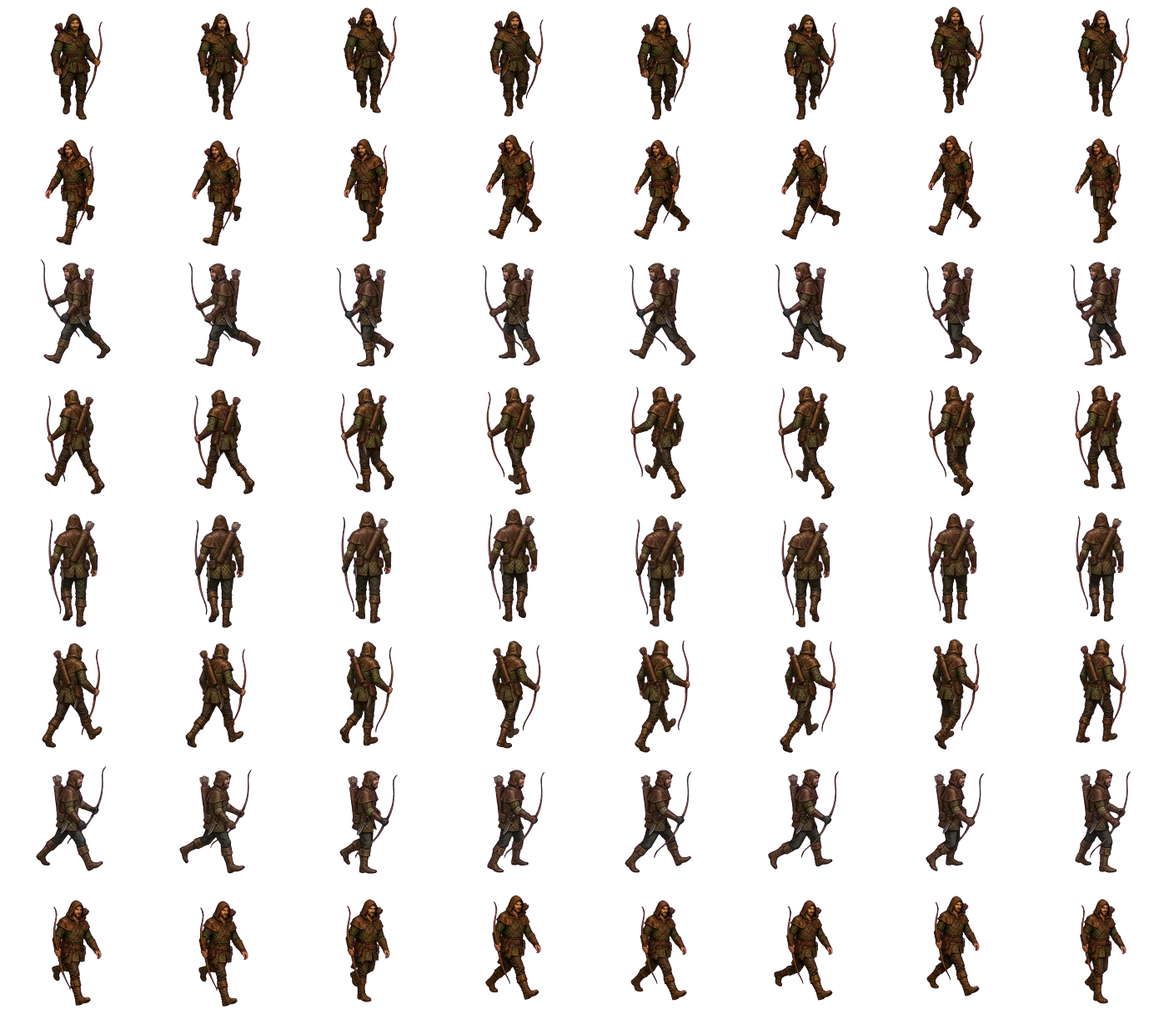
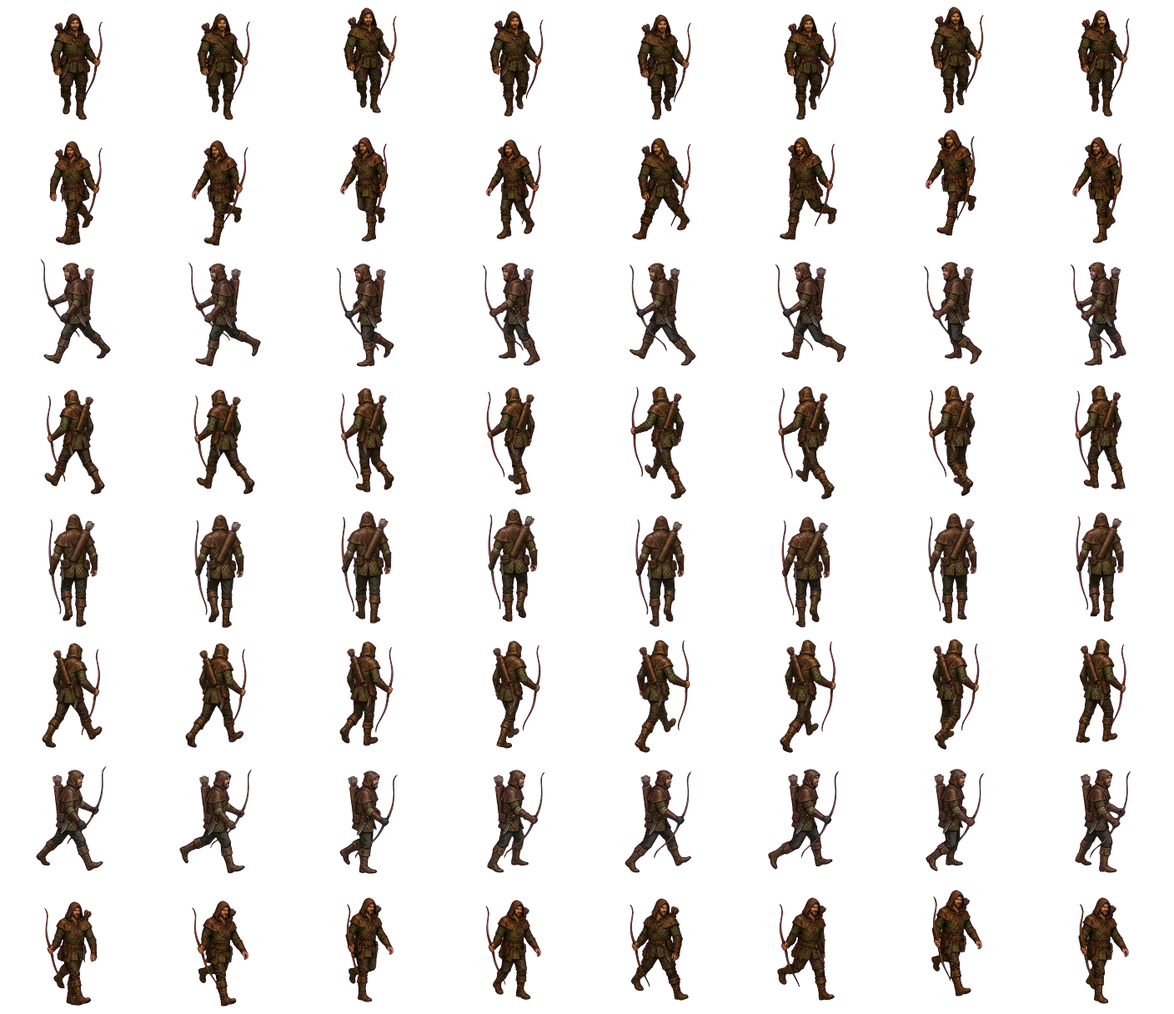
Dungeon crawler v79: the hunter's SW / SE walk repainted (a real stride, three-quarter view)
Claude-Session: https://claude.ai/code/session_01NpeYVwYy5uGAXmDhbForw5

diff --git a/martin/dungeon-crawler-01/catalog.html b/martin/dungeon-crawler-01/catalog.html
@@ -150,7 +150,7 @@
 </main>
 <footer id="footer"></footer>
 <script>
-const D = {"version":78,"mons":{"skeleton":{"name":"Skeleton Warrior","scale":1,"hp":26,"dmg":[3,6],"armor":5,"speed":2.71,"reach":1.1,"cd":1.2,"xp":16,"r":0.32,"minD":1,"w":3,"perDepth":[{"hp":31,"dmg":[3.6,7.2],"armor":5,"speed":2.3,"xp":16,"limit":null,"champ":false},{"hp":35,"dmg":[4,8.1],"armor":8,"speed":2.34,"xp":19,"limit":null,"champ":false},{"hp":39,"dmg":[4.5,9],"armor":11,"speed":2.37,"xp":22,"limit":null,"champ":false},{"hp":44,"dmg":[5.1,10.1],"armor":14,"speed":2.41,"xp":26,"limit":null,"champ":false},{"hp":49,"dmg":[5.7,11.3],"armor":17,"speed":2.44,"xp":30,"limit":null,"champ":true},{"hp":55,"dmg":[6.3,12.7],"armor":20,"speed":2.48,"xp":35,"limit":null,"champ":true},{"hp":62,"dmg":[7.1,14.2],"armor":23,"speed":2.51,"xp":41,"limit":null,"champ":true},{"hp":69,"dmg":[8,15.9],"armor":26,"speed":2.55,"xp":48,"limit":null,"champ":true},{"hp":77,"dmg":[8.9,17.8],"armor":29,"speed":2.58,"xp":56,"limit":null,"champ":true},{"hp":87,"dmg":[10,20],"armor":32,"speed":2.61,"xp":66,"limit":null,"champ":true},{"hp":97,"dmg":[11.2,22.4],"armor":35,"speed":2.65,"xp":77,"limit":null,"champ":true},{"hp":109,"dmg":[12.5,25],"armor":38,"speed":2.68,"xp":90,"limit":null,"champ":true}]},"ghoul":{"name":"Ghoul","scale":0.95,"hp":20,"dmg":[2,5],"armor":2,"speed":3.3,"reach":1,"cd":0.9,"xp":13,"r":0.3,"minD":1,"w":3,"perDepth":[{"hp":24,"dmg":[2.4,6],"armor":2,"speed":2.8,"xp":13,"limit":1,"champ":false},{"hp":27,"dmg":[2.7,6.7],"armor":5,"speed":2.85,"xp":15,"limit":2,"champ":false},{"hp":30,"dmg":[3,7.5],"armor":8,"speed":2.89,"xp":18,"limit":2,"champ":false},{"hp":34,"dmg":[3.4,8.4],"armor":11,"speed":2.93,"xp":21,"limit":2,"champ":false},{"hp":38,"dmg":[3.8,9.4],"armor":14,"speed":2.97,"xp":24,"limit":null,"champ":true},{"hp":42,"dmg":[4.2,10.6],"armor":17,"speed":3.02,"xp":29,"limit":null,"champ":true},{"hp":47,"dmg":[4.7,11.8],"armor":20,"speed":3.06,"xp":33,"limit":null,"champ":true},{"hp":53,"dmg":[5.3,13.3],"armor":23,"speed":3.1,"xp":39,"limit":null,"champ":true},{"hp":59,"dmg":[5.9,14.9],"armor":26,"speed":3.14,"xp":46,"limit":null,"champ":true},{"hp":67,"dmg":[6.7,16.6],"armor":29,"speed":3.18,"xp":53,"limit":null,"champ":true},{"hp":75,"dmg":[7.5,18.6],"armor":32,"speed":3.23,"xp":62,"limit":null,"champ":true},{"hp":83,"dmg":[8.3,20.9],"armor":35,"speed":3.27,"xp":73,"limit":null,"champ":true}]},"spider":{"name":"Cave Spider","scale":0.78,"hp":15,"dmg":[2,4],"armor":1,"speed":3.9,"reach":1,"cd":0.8,"xp":11,"r":0.34,"minD":1,"w":2,"perDepth":[{"hp":18,"dmg":[2.4,4.8],"armor":1,"speed":3.31,"xp":11,"limit":null,"champ":false},{"hp":20,"dmg":[2.7,5.4],"armor":4,"speed":3.36,"xp":13,"limit":null,"champ":false},{"hp":23,"dmg":[3,6],"armor":7,"speed":3.41,"xp":15,"limit":null,"champ":false},{"hp":25,"dmg":[3.4,6.7],"armor":10,"speed":3.46,"xp":18,"limit":null,"champ":false},{"hp":28,"dmg":[3.8,7.6],"armor":13,"speed":3.51,"xp":21,"limit":null,"champ":true},{"hp":32,"dmg":[4.2,8.5],"armor":16,"speed":3.56,"xp":24,"limit":null,"champ":true},{"hp":36,"dmg":[4.7,9.5],"armor":19,"speed":3.61,"xp":28,"limit":null,"champ":true},{"hp":40,"dmg":[5.3,10.6],"armor":22,"speed":3.66,"xp":33,"limit":null,"champ":true},{"hp":45,"dmg":[5.9,11.9],"armor":25,"speed":3.71,"xp":39,"limit":null,"champ":true},{"hp":50,"dmg":[6.7,13.3],"armor":28,"speed":3.76,"xp":45,"limit":null,"champ":true},{"hp":56,"dmg":[7.5,14.9],"armor":31,"speed":3.81,"xp":53,"limit":null,"champ":true},{"hp":63,"dmg":[8.3,16.7],"armor":34,"speed":3.86,"xp":62,"limit":null,"champ":true}]},"wraith":{"name":"Wraith","scale":1,"hp":22,"dmg":[4,7],"armor":3,"speed":2.3,"ranged":true,"range":6.5,"cd":1.9,"xp":22,"r":0.3,"minD":4,"w":2,"float":true,"perDepth":[{"hp":26,"dmg":[4.8,8.4],"armor":3,"speed":1.95,"xp":22,"limit":null,"champ":false},{"hp":30,"dmg":[5.4,9.4],"armor":6,"speed":1.98,"xp":26,"limit":null,"champ":false},{"hp":33,"dmg":[6,10.5],"armor":9,"speed":2.01,"xp":30,"limit":null,"champ":false},{"hp":37,"dmg":[6.7,11.8],"armor":12,"speed":2.04,"xp":35,"limit":1,"champ":false},{"hp":42,"dmg":[7.6,13.2],"armor":15,"speed":2.07,"xp":41,"limit":2,"champ":false},{"hp":47,"dmg":[8.5,14.8],"armor":18,"speed":2.1,"xp":48,"limit":2,"champ":false},{"hp":52,"dmg":[9.5,16.6],"armor":21,"speed":2.13,"xp":56,"limit":2,"champ":false},{"hp":58,"dmg":[10.6,18.6],"armor":24,"speed":2.16,"xp":66,"limit":null,"champ":true},{"hp":65,"dmg":[11.9,20.8],"armor":27,"speed":2.19,"xp":77,"limit":null,"champ":true},{"hp":73,"dmg":[13.3,23.3],"armor":30,"speed":2.22,"xp":90,"limit":null,"champ":true},{"hp":82,"dmg":[14.9,26.1],"armor":33,"speed":2.25,"xp":106,"limit":null,"champ":true},{"hp":92,"dmg":[16.7,29.2],"armor":36,"speed":2.28,"xp":124,"limit":null,"champ":true}]},"demon":{"name":"Pit Demon","scale":1.3,"hp":75,"dmg":[8,13],"armor":12,"speed":2.24,"reach":1.35,"cd":1.5,"xp":60,"r":0.45,"minD":5,"w":1,"perDepth":[{"hp":90,"dmg":[9.6,15.6],"armor":12,"speed":1.9,"xp":60,"limit":null,"champ":false},{"hp":101,"dmg":[10.8,17.5],"armor":15,"speed":1.93,"xp":70,"limit":null,"champ":false},{"hp":113,"dmg":[12,19.6],"armor":18,"speed":1.96,"xp":82,"limit":null,"champ":false},{"hp":126,"dmg":[13.5,21.9],"armor":21,"speed":1.99,"xp":96,"limit":null,"champ":false},{"hp":142,"dmg":[15.1,24.5],"armor":24,"speed":2.02,"xp":112,"limit":1,"champ":false},{"hp":159,"dmg":[16.9,27.5],"armor":27,"speed":2.05,"xp":132,"limit":2,"champ":false},{"hp":178,"dmg":[18.9,30.8],"armor":30,"speed":2.08,"xp":154,"limit":2,"champ":false},{"hp":199,"dmg":[21.2,34.5],"armor":33,"speed":2.1,"xp":180,"limit":2,"champ":false},{"hp":223,"dmg":[23.8,38.6],"armor":36,"speed":2.13,"xp":211,"limit":null,"champ":true},{"hp":250,"dmg":[26.6,43.3],"armor":39,"speed":2.16,"xp":247,"limit":null,"champ":true},{"hp":280,"dmg":[29.8,48.5],"armor":42,"speed":2.19,"xp":288,"limit":null,"champ":true},{"hp":313,"dmg":[33.4,54.3],"armor":45,"speed":2.22,"xp":337,"limit":null,"champ":true}]}},"tier":{"normal":{"size":1,"hp":1,"dmg":1,"xp":1,"armor":0},"champ":{"size":1.15,"hp":2.5,"dmg":2,"xp":4,"armor":0},"boss":{"size":1.35,"hp":8,"dmg":3,"xp":12,"armor":4}},"monBase":1.2,"monScale":1.12,"monSpeed":0.85,"newLimit":[1,2,2,2],"champAfter":4,"bossFrom":6,"bossRoomFrom":5,"loneAt":{"3":"wraith","4":"demon"},"bases":{"shortsword":{"name":"Short Sword","slot":"weapon","kind":"sword","min":4,"max":8,"cd":0.55,"lvl":1},"longsword":{"name":"Longsword","slot":"weapon","kind":"sword","min":7,"max":14,"cd":0.65,"lvl":2},"broadsword":{"name":"Broadsword","slot":"weapon","kind":"sword","min":13,"max":22,"cd":0.7,"lvl":5},"greatsword":{"name":"Blackened Greatsword","slot":"weapon","kind":"sword","min":20,"max":34,"cd":0.85,"lvl":8},"bastardsword":{"name":"Bastard Sword","slot":"weapon","kind":"sword","min":24,"max":40,"cd":0.8,"lvl":11},"knightsword":{"name":"Knight's Greatsword","slot":"weapon","kind":"sword","min":32,"max":52,"cd":0.85,"lvl":15},"handaxe":{"name":"Hand Axe","slot":"weapon","kind":"axe","min":5,"max":10,"cd":0.7,"lvl":1},"beardedaxe":{"name":"Bearded Axe","slot":"weapon","kind":"axe","min":10,"max":18,"cd":0.8,"lvl":4},"battleaxe":{"name":"Battle Axe","slot":"weapon","kind":"axe","min":17,"max":29,"cd":0.9,"lvl":7},"execaxe":{"name":"Executioner's Axe","slot":"weapon","kind":"axe","min":26,"max":46,"cd":1.05,"lvl":9},"greataxe":{"name":"Great Axe","slot":"weapon","kind":"axe","min":34,"max":58,"cd":1.05,"lvl":14},"shortbow":{"name":"Short Bow","slot":"weapon","kind":"bow","min":3,"max":7,"cd":0.6,"lvl":1},"huntingbow":{"name":"Hunting Bow","slot":"weapon","kind":"bow","min":5,"max":10,"cd":0.65,"lvl":2},"longbow":{"name":"Yew Longbow","slot":"weapon","kind":"bow","min":9,"max":16,"cd":0.75,"lvl":5},"bonebow":{"name":"Bone Bow","slot":"weapon","kind":"bow","min":14,"max":25,"cd":0.9,"lvl":8},"compositebow":{"name":"Composite Bow","slot":"weapon","kind":"bow","min":18,"max":31,"cd":0.85,"lvl":11},"warbow":{"name":"War Bow","slot":"weapon","kind":"bow","min":25,"max":42,"cd":0.9,"lvl":15},"leathercap":{"name":"Leather Cap","slot":"head","armor":3,"lvl":1},"ironhelm":{"name":"Iron Helm","slot":"head","armor":7,"lvl":4},"greathelm":{"name":"Horned Great Helm","slot":"head","armor":13,"lvl":8},"visoredhelm":{"name":"Visored Helm","slot":"head","armor":19,"lvl":12},"leathertunic":{"name":"Leather Tunic","slot":"chest","armor":6,"lvl":1},"studded":{"name":"Studded Leather","slot":"chest","armor":11,"lvl":4},"chainmail":{"name":"Chain Mail","slot":"chest","armor":18,"lvl":7},"platemail":{"name":"Plate Cuirass","slot":"chest","armor":28,"lvl":11},"fullplate":{"name":"Full Plate","slot":"chest","armor":36,"lvl":15},"leathergloves":{"name":"Leather Gloves","slot":"hands","armor":2,"lvl":1},"gauntlets":{"name":"Iron Gauntlets","slot":"hands","armor":6,"lvl":4},"platedgloves":{"name":"Plated Gauntlets","slot":"hands","armor":10,"lvl":9},"heavygloves":{"name":"Heavy Gauntlets","slot":"hands","armor":13,"lvl":14},"leatherboots":{"name":"Leather Boots","slot":"feet","armor":2,"implicit":{"speed":5},"lvl":1},"ironboots":{"name":"Plated Boots","slot":"feet","armor":6,"lvl":4},"greaves":{"name":"Iron Greaves","slot":"feet","armor":10,"lvl":9},"heavygreaves":{"name":"Heavy Greaves","slot":"feet","armor":13,"lvl":14},"silverring":{"name":"Silver Ring","slot":"ring","lvl":1},"rubyring":{"name":"Ruby Ring","slot":"ring","lvl":1},"skullring":{"name":"Grave Ring","slot":"ring","lvl":1},"sapphireamulet":{"name":"Sapphire Amulet","slot":"amulet","lvl":1},"bloodamulet":{"name":"Blood Amulet","slot":"amulet","lvl":1},"bonetalisman":{"name":"Bone Talisman","slot":"amulet","lvl":1}},"kinds":{"sword":{"reach":1.55,"arc":0.9,"label":"Sword (melee)"},"axe":{"reach":1.45,"arc":1.25,"label":"Axe (melee, wide cleave)"},"bow":{"reach":12,"label":"Bow (ranged)"},"bomb":{"reach":7,"label":"Fire bomb (thrown)"},"fist":{"reach":1.25,"arc":0.8,"label":"Bare hands"}},"slotLabel":{"weapon":"Weapon","head":"Helm","chest":"Armor","hands":"Gloves","feet":"Boots","ring":"Ring","ring1":"Ring","ring2":"Ring","amulet":"Amulet"},"statLabel":{"str":"Strength","dex":"Dexterity","vit":"Vitality","hp":"Life","regen":"Life regen / s","armor":"Armor","crit":"% Critical chance","dmg":"% Damage","speed":"% Move speed"},"affix":[{"k":"str","tiers":[["Mighty","of the Bear",1,4],["Brutal","of the Boar",5,8],["Titanic","of the Giant",9,12]]},{"k":"dex","tiers":[["Nimble","of the Fox",1,4],["Deft","of the Lynx",5,8],["Lithe","of the Falcon",9,12]]},{"k":"vit","tiers":[["Sturdy","of the Ox",1,4],["Stalwart","of the Bull",5,8],["Unyielding","of the Mountain",9,12]]},{"k":"hp","tiers":[["Hale","of Life",5,16],["Robust","of Vigor",17,30],["Vigorous","of Endurance",31,45]]},{"k":"armor","tiers":[["Warded","of Iron",2,8],["Fortified","of Steel",9,15],["Impregnable","of Adamant",16,22]],"noWeapon":true},{"k":"crit","tiers":[["Keen","of Precision",1,3],["Precise","of Striking",3,5],["Deadly","of Slaying",5,8]]},{"k":"dmg","tiers":[["Cruel","of Slaughter",5,15],["Savage","of Carnage",16,26],["Merciless","of Ruin",27,38]]},{"k":"speed","tiers":[["Swift","of Haste",3,6],["Fleet","of Speed",7,10],["Windborne","of the Wind",11,15]],"only":"feet"}],"affixFrom":[1,7,12],"affixW":[1,2,4],"jewelMult":2,"potions":{"health":{"name":"Health Potion","plural":"health potions","color":"#e06a5a","glow":"224,90,80","filter":"","desc":"Restores 44% of your life."},"ironskin":{"name":"Iron Skin Potion","plural":"iron skin potions","color":"#a9c1d6","glow":"150,180,210","filter":"hue-rotate(195deg) saturate(0.55) brightness(1.2)","desc":"Armor ×3 + 60 for 20 seconds."}},"bomb":{"name":"Fire Bomb","plural":"fire bombs","cd":1,"range":7,"color":"#e8893a","glow":"232,137,58","from":2},"fire":{"r":1.5,"dur":12,"dps":10,"tick":0.5,"fade":1.5,"scorch":20,"after":10,"afterDps":5,"catchMon":1.5},"iron":{"mult":3,"add":60,"dur":20},"heal":0.44,"magicFrom":4,"lootPlus":{"champ":2,"bigChest":2,"boss":3,"guardian":4},"rareFrom":8,"ringFrom":4,"amuletFrom":6,"magicOdds":0.25,"rareOdds":0.1,"meta":{"characters":{"hero":{"fw":144,"fh":152,"frames":8,"idle":3,"footY":128,"fpt":5},"skeleton":{"fw":176,"fh":152,"frames":8,"idle":3,"footY":128,"fpt":5},"ghoul":{"fw":160,"fh":162,"frames":8,"idle":3,"footY":138,"fpt":5.5},"spider":{"fw":188,"fh":152,"frames":4,"footY":128,"fpt":2},"wraith":{"fw":102,"fh":152,"frames":4,"footY":128,"fpt":2},"demon":{"fw":150,"fh":152,"frames":4,"footY":128,"fpt":2},"keeper1":{"fw":160,"fh":152,"frames":8,"idle":3,"footY":128,"fpt":5},"keeper2":{"fw":168,"fh":152,"frames":8,"idle":3,"footY":128,"fpt":5},"keeper3":{"fw":168,"fh":160,"frames":8,"idle":3,"footY":136,"fpt":5},"keeper4":{"fw":160,"fh":152,"frames":8,"idle":3,"footY":128,"fpt":5.5},"hunter":{"fw":176,"fh":152,"frames":8,"idle":3,"footY":128,"fpt":5},"huntress":{"fw":176,"fh":152,"frames":8,"idle":3,"footY":128,"fpt":5},"girl":{"fw":144,"fh":152,"frames":8,"idle":3,"footY":128,"fpt":5},"boy":{"fw":144,"fh":152,"frames":8,"idle":3,"footY":128,"fpt":5},"duke":{"fw":176,"fh":152,"frames":8,"idle":3,"footY":128,"fpt":5},"princess":{"fw":160,"fh":152,"frames":8,"idle":3,"footY":128,"fpt":5},"smithess":{"fw":168,"fh":152,"frames":8,"idle":3,"footY":128,"fpt":5},"sorcerer":{"fw":176,"fh":176,"frames":8,"idle":3,"footY":152,"fpt":5.5}},"items":{"shortsword":[0,0],"longsword":[96,0],"greatsword":[192,0],"handaxe":[288,0],"battleaxe":[384,0],"execaxe":[480,0],"shortbow":[0,96],"longbow":[96,96],"bonebow":[192,96],"leathercap":[288,96],"greathelm":[384,96],"leathertunic":[480,96],"platemail":[0,192],"leathergloves":[96,192],"gauntlets":[192,192],"leatherboots":[288,192],"ironboots":[384,192],"silverring":[480,192],"rubyring":[0,288],"skullring":[96,288],"sapphireamulet":[192,288],"bloodamulet":[288,288],"bonetalisman":[384,288],"potion":[480,288],"broadsword":[0,384],"bastardsword":[96,384],"knightsword":[192,384],"beardedaxe":[288,384],"greataxe":[384,384],"huntingbow":[480,384],"ironhelm":[0,480],"visoredhelm":[96,480],"studded":[192,480],"platedgloves":[288,480],"heavygloves":[384,480],"chainmail":[480,480],"quiver":[0,576],"warbow":[96,576],"compositebow":[192,576],"fullplate":[288,576],"greaves":[384,576],"heavygreaves":[480,576],"firebomb1":[0,672],"firebomb2":[96,672],"firebomb3":[192,672],"firebomb4":[288,672],"firebomb5":[384,672],"firebomb6":[480,672]},"props":{"chest":[0,0,132,141],"chestopen":[134,0,144,171],"door":[280,0,131,207],"stairs":[413,0,156,127],"brazier":[571,0,104,167],"bones":[677,0,148,117],"urn":[827,0,95,151],"gold":[924,0,127,90],"throne":[1053,0,129,206],"altar":[1184,0,153,166],"candelabrum":[1339,0,84,196],"skullpile":[1425,0,166,136],"banner":[1593,0,84,206],"pillar":[1679,0,98,191],"sarcophagus":[1779,0,154,144],"bonesused":[0,209,200,103],"doorA":[202,209,192,256],"doorB":[396,209,192,256],"keeper1":[0,467,104,230],"keeper2":[106,467,108,220],"keeper3":[216,467,105,225],"keeper4":[323,467,98,228],"mtable":[423,467,230,257],"mrack":[655,467,136,230],"mchest":[793,467,170,218],"mshelf":[965,467,190,228],"mcrates":[1157,467,190,222],"mbarrel":[1349,467,100,190],"mlantern":[1451,467,65,230],"mrug":[1518,467,260,145]},"iconSize":96,"surface":{"tree1":[0,0,248,400,224],"tree2":[250,0,148,420,319],"tree3":[400,0,159,340,220],"tree4":[561,0,153,360,177],"bush1":[716,0,94,96],"bush2":[812,0,96,92],"bush3":[910,0,102,70],"bush4":[1014,0,96,100],"flowers":[1112,0,63,56],"rocks":[1177,0,71,50],"mushrooms":[1250,0,73,54],"tuft":[1325,0,65,70],"crypt":[1392,0,540,600]}},"heroSpeed":4.2,"depths":12,"propsW":1935,"itemsW":576,"levels":[{"bossRoom":false,"boss":false,"big":false},{"bossRoom":false,"boss":false,"big":false},{"bossRoom":false,"boss":false,"big":true},{"bossRoom":false,"boss":false,"big":false},{"bossRoom":true,"boss":false,"big":true},{"bossRoom":true,"boss":true,"big":false},{"bossRoom":true,"boss":true,"big":true},{"bossRoom":true,"boss":true,"big":false},{"bossRoom":true,"boss":true,"big":true},{"bossRoom":true,"boss":true,"big":false},{"bossRoom":true,"boss":true,"big":true},{"bossRoom":true,"boss":true,"big":false}]};
+const D = {"version":79,"mons":{"skeleton":{"name":"Skeleton Warrior","scale":1,"hp":26,"dmg":[3,6],"armor":5,"speed":2.71,"reach":1.1,"cd":1.2,"xp":16,"r":0.32,"minD":1,"w":3,"perDepth":[{"hp":31,"dmg":[3.6,7.2],"armor":5,"speed":2.3,"xp":16,"limit":null,"champ":false},{"hp":35,"dmg":[4,8.1],"armor":8,"speed":2.34,"xp":19,"limit":null,"champ":false},{"hp":39,"dmg":[4.5,9],"armor":11,"speed":2.37,"xp":22,"limit":null,"champ":false},{"hp":44,"dmg":[5.1,10.1],"armor":14,"speed":2.41,"xp":26,"limit":null,"champ":false},{"hp":49,"dmg":[5.7,11.3],"armor":17,"speed":2.44,"xp":30,"limit":null,"champ":true},{"hp":55,"dmg":[6.3,12.7],"armor":20,"speed":2.48,"xp":35,"limit":null,"champ":true},{"hp":62,"dmg":[7.1,14.2],"armor":23,"speed":2.51,"xp":41,"limit":null,"champ":true},{"hp":69,"dmg":[8,15.9],"armor":26,"speed":2.55,"xp":48,"limit":null,"champ":true},{"hp":77,"dmg":[8.9,17.8],"armor":29,"speed":2.58,"xp":56,"limit":null,"champ":true},{"hp":87,"dmg":[10,20],"armor":32,"speed":2.61,"xp":66,"limit":null,"champ":true},{"hp":97,"dmg":[11.2,22.4],"armor":35,"speed":2.65,"xp":77,"limit":null,"champ":true},{"hp":109,"dmg":[12.5,25],"armor":38,"speed":2.68,"xp":90,"limit":null,"champ":true}]},"ghoul":{"name":"Ghoul","scale":0.95,"hp":20,"dmg":[2,5],"armor":2,"speed":3.3,"reach":1,"cd":0.9,"xp":13,"r":0.3,"minD":1,"w":3,"perDepth":[{"hp":24,"dmg":[2.4,6],"armor":2,"speed":2.8,"xp":13,"limit":1,"champ":false},{"hp":27,"dmg":[2.7,6.7],"armor":5,"speed":2.85,"xp":15,"limit":2,"champ":false},{"hp":30,"dmg":[3,7.5],"armor":8,"speed":2.89,"xp":18,"limit":2,"champ":false},{"hp":34,"dmg":[3.4,8.4],"armor":11,"speed":2.93,"xp":21,"limit":2,"champ":false},{"hp":38,"dmg":[3.8,9.4],"armor":14,"speed":2.97,"xp":24,"limit":null,"champ":true},{"hp":42,"dmg":[4.2,10.6],"armor":17,"speed":3.02,"xp":29,"limit":null,"champ":true},{"hp":47,"dmg":[4.7,11.8],"armor":20,"speed":3.06,"xp":33,"limit":null,"champ":true},{"hp":53,"dmg":[5.3,13.3],"armor":23,"speed":3.1,"xp":39,"limit":null,"champ":true},{"hp":59,"dmg":[5.9,14.9],"armor":26,"speed":3.14,"xp":46,"limit":null,"champ":true},{"hp":67,"dmg":[6.7,16.6],"armor":29,"speed":3.18,"xp":53,"limit":null,"champ":true},{"hp":75,"dmg":[7.5,18.6],"armor":32,"speed":3.23,"xp":62,"limit":null,"champ":true},{"hp":83,"dmg":[8.3,20.9],"armor":35,"speed":3.27,"xp":73,"limit":null,"champ":true}]},"spider":{"name":"Cave Spider","scale":0.78,"hp":15,"dmg":[2,4],"armor":1,"speed":3.9,"reach":1,"cd":0.8,"xp":11,"r":0.34,"minD":1,"w":2,"perDepth":[{"hp":18,"dmg":[2.4,4.8],"armor":1,"speed":3.31,"xp":11,"limit":null,"champ":false},{"hp":20,"dmg":[2.7,5.4],"armor":4,"speed":3.36,"xp":13,"limit":null,"champ":false},{"hp":23,"dmg":[3,6],"armor":7,"speed":3.41,"xp":15,"limit":null,"champ":false},{"hp":25,"dmg":[3.4,6.7],"armor":10,"speed":3.46,"xp":18,"limit":null,"champ":false},{"hp":28,"dmg":[3.8,7.6],"armor":13,"speed":3.51,"xp":21,"limit":null,"champ":true},{"hp":32,"dmg":[4.2,8.5],"armor":16,"speed":3.56,"xp":24,"limit":null,"champ":true},{"hp":36,"dmg":[4.7,9.5],"armor":19,"speed":3.61,"xp":28,"limit":null,"champ":true},{"hp":40,"dmg":[5.3,10.6],"armor":22,"speed":3.66,"xp":33,"limit":null,"champ":true},{"hp":45,"dmg":[5.9,11.9],"armor":25,"speed":3.71,"xp":39,"limit":null,"champ":true},{"hp":50,"dmg":[6.7,13.3],"armor":28,"speed":3.76,"xp":45,"limit":null,"champ":true},{"hp":56,"dmg":[7.5,14.9],"armor":31,"speed":3.81,"xp":53,"limit":null,"champ":true},{"hp":63,"dmg":[8.3,16.7],"armor":34,"speed":3.86,"xp":62,"limit":null,"champ":true}]},"wraith":{"name":"Wraith","scale":1,"hp":22,"dmg":[4,7],"armor":3,"speed":2.3,"ranged":true,"range":6.5,"cd":1.9,"xp":22,"r":0.3,"minD":4,"w":2,"float":true,"perDepth":[{"hp":26,"dmg":[4.8,8.4],"armor":3,"speed":1.95,"xp":22,"limit":null,"champ":false},{"hp":30,"dmg":[5.4,9.4],"armor":6,"speed":1.98,"xp":26,"limit":null,"champ":false},{"hp":33,"dmg":[6,10.5],"armor":9,"speed":2.01,"xp":30,"limit":null,"champ":false},{"hp":37,"dmg":[6.7,11.8],"armor":12,"speed":2.04,"xp":35,"limit":1,"champ":false},{"hp":42,"dmg":[7.6,13.2],"armor":15,"speed":2.07,"xp":41,"limit":2,"champ":false},{"hp":47,"dmg":[8.5,14.8],"armor":18,"speed":2.1,"xp":48,"limit":2,"champ":false},{"hp":52,"dmg":[9.5,16.6],"armor":21,"speed":2.13,"xp":56,"limit":2,"champ":false},{"hp":58,"dmg":[10.6,18.6],"armor":24,"speed":2.16,"xp":66,"limit":null,"champ":true},{"hp":65,"dmg":[11.9,20.8],"armor":27,"speed":2.19,"xp":77,"limit":null,"champ":true},{"hp":73,"dmg":[13.3,23.3],"armor":30,"speed":2.22,"xp":90,"limit":null,"champ":true},{"hp":82,"dmg":[14.9,26.1],"armor":33,"speed":2.25,"xp":106,"limit":null,"champ":true},{"hp":92,"dmg":[16.7,29.2],"armor":36,"speed":2.28,"xp":124,"limit":null,"champ":true}]},"demon":{"name":"Pit Demon","scale":1.3,"hp":75,"dmg":[8,13],"armor":12,"speed":2.24,"reach":1.35,"cd":1.5,"xp":60,"r":0.45,"minD":5,"w":1,"perDepth":[{"hp":90,"dmg":[9.6,15.6],"armor":12,"speed":1.9,"xp":60,"limit":null,"champ":false},{"hp":101,"dmg":[10.8,17.5],"armor":15,"speed":1.93,"xp":70,"limit":null,"champ":false},{"hp":113,"dmg":[12,19.6],"armor":18,"speed":1.96,"xp":82,"limit":null,"champ":false},{"hp":126,"dmg":[13.5,21.9],"armor":21,"speed":1.99,"xp":96,"limit":null,"champ":false},{"hp":142,"dmg":[15.1,24.5],"armor":24,"speed":2.02,"xp":112,"limit":1,"champ":false},{"hp":159,"dmg":[16.9,27.5],"armor":27,"speed":2.05,"xp":132,"limit":2,"champ":false},{"hp":178,"dmg":[18.9,30.8],"armor":30,"speed":2.08,"xp":154,"limit":2,"champ":false},{"hp":199,"dmg":[21.2,34.5],"armor":33,"speed":2.1,"xp":180,"limit":2,"champ":false},{"hp":223,"dmg":[23.8,38.6],"armor":36,"speed":2.13,"xp":211,"limit":null,"champ":true},{"hp":250,"dmg":[26.6,43.3],"armor":39,"speed":2.16,"xp":247,"limit":null,"champ":true},{"hp":280,"dmg":[29.8,48.5],"armor":42,"speed":2.19,"xp":288,"limit":null,"champ":true},{"hp":313,"dmg":[33.4,54.3],"armor":45,"speed":2.22,"xp":337,"limit":null,"champ":true}]}},"tier":{"normal":{"size":1,"hp":1,"dmg":1,"xp":1,"armor":0},"champ":{"size":1.15,"hp":2.5,"dmg":2,"xp":4,"armor":0},"boss":{"size":1.35,"hp":8,"dmg":3,"xp":12,"armor":4}},"monBase":1.2,"monScale":1.12,"monSpeed":0.85,"newLimit":[1,2,2,2],"champAfter":4,"bossFrom":6,"bossRoomFrom":5,"loneAt":{"3":"wraith","4":"demon"},"bases":{"shortsword":{"name":"Short Sword","slot":"weapon","kind":"sword","min":4,"max":8,"cd":0.55,"lvl":1},"longsword":{"name":"Longsword","slot":"weapon","kind":"sword","min":7,"max":14,"cd":0.65,"lvl":2},"broadsword":{"name":"Broadsword","slot":"weapon","kind":"sword","min":13,"max":22,"cd":0.7,"lvl":5},"greatsword":{"name":"Blackened Greatsword","slot":"weapon","kind":"sword","min":20,"max":34,"cd":0.85,"lvl":8},"bastardsword":{"name":"Bastard Sword","slot":"weapon","kind":"sword","min":24,"max":40,"cd":0.8,"lvl":11},"knightsword":{"name":"Knight's Greatsword","slot":"weapon","kind":"sword","min":32,"max":52,"cd":0.85,"lvl":15},"handaxe":{"name":"Hand Axe","slot":"weapon","kind":"axe","min":5,"max":10,"cd":0.7,"lvl":1},"beardedaxe":{"name":"Bearded Axe","slot":"weapon","kind":"axe","min":10,"max":18,"cd":0.8,"lvl":4},"battleaxe":{"name":"Battle Axe","slot":"weapon","kind":"axe","min":17,"max":29,"cd":0.9,"lvl":7},"execaxe":{"name":"Executioner's Axe","slot":"weapon","kind":"axe","min":26,"max":46,"cd":1.05,"lvl":9},"greataxe":{"name":"Great Axe","slot":"weapon","kind":"axe","min":34,"max":58,"cd":1.05,"lvl":14},"shortbow":{"name":"Short Bow","slot":"weapon","kind":"bow","min":3,"max":7,"cd":0.6,"lvl":1},"huntingbow":{"name":"Hunting Bow","slot":"weapon","kind":"bow","min":5,"max":10,"cd":0.65,"lvl":2},"longbow":{"name":"Yew Longbow","slot":"weapon","kind":"bow","min":9,"max":16,"cd":0.75,"lvl":5},"bonebow":{"name":"Bone Bow","slot":"weapon","kind":"bow","min":14,"max":25,"cd":0.9,"lvl":8},"compositebow":{"name":"Composite Bow","slot":"weapon","kind":"bow","min":18,"max":31,"cd":0.85,"lvl":11},"warbow":{"name":"War Bow","slot":"weapon","kind":"bow","min":25,"max":42,"cd":0.9,"lvl":15},"leathercap":{"name":"Leather Cap","slot":"head","armor":3,"lvl":1},"ironhelm":{"name":"Iron Helm","slot":"head","armor":7,"lvl":4},"greathelm":{"name":"Horned Great Helm","slot":"head","armor":13,"lvl":8},"visoredhelm":{"name":"Visored Helm","slot":"head","armor":19,"lvl":12},"leathertunic":{"name":"Leather Tunic","slot":"chest","armor":6,"lvl":1},"studded":{"name":"Studded Leather","slot":"chest","armor":11,"lvl":4},"chainmail":{"name":"Chain Mail","slot":"chest","armor":18,"lvl":7},"platemail":{"name":"Plate Cuirass","slot":"chest","armor":28,"lvl":11},"fullplate":{"name":"Full Plate","slot":"chest","armor":36,"lvl":15},"leathergloves":{"name":"Leather Gloves","slot":"hands","armor":2,"lvl":1},"gauntlets":{"name":"Iron Gauntlets","slot":"hands","armor":6,"lvl":4},"platedgloves":{"name":"Plated Gauntlets","slot":"hands","armor":10,"lvl":9},"heavygloves":{"name":"Heavy Gauntlets","slot":"hands","armor":13,"lvl":14},"leatherboots":{"name":"Leather Boots","slot":"feet","armor":2,"implicit":{"speed":5},"lvl":1},"ironboots":{"name":"Plated Boots","slot":"feet","armor":6,"lvl":4},"greaves":{"name":"Iron Greaves","slot":"feet","armor":10,"lvl":9},"heavygreaves":{"name":"Heavy Greaves","slot":"feet","armor":13,"lvl":14},"silverring":{"name":"Silver Ring","slot":"ring","lvl":1},"rubyring":{"name":"Ruby Ring","slot":"ring","lvl":1},"skullring":{"name":"Grave Ring","slot":"ring","lvl":1},"sapphireamulet":{"name":"Sapphire Amulet","slot":"amulet","lvl":1},"bloodamulet":{"name":"Blood Amulet","slot":"amulet","lvl":1},"bonetalisman":{"name":"Bone Talisman","slot":"amulet","lvl":1}},"kinds":{"sword":{"reach":1.55,"arc":0.9,"label":"Sword (melee)"},"axe":{"reach":1.45,"arc":1.25,"label":"Axe (melee, wide cleave)"},"bow":{"reach":12,"label":"Bow (ranged)"},"bomb":{"reach":7,"label":"Fire bomb (thrown)"},"fist":{"reach":1.25,"arc":0.8,"label":"Bare hands"}},"slotLabel":{"weapon":"Weapon","head":"Helm","chest":"Armor","hands":"Gloves","feet":"Boots","ring":"Ring","ring1":"Ring","ring2":"Ring","amulet":"Amulet"},"statLabel":{"str":"Strength","dex":"Dexterity","vit":"Vitality","hp":"Life","regen":"Life regen / s","armor":"Armor","crit":"% Critical chance","dmg":"% Damage","speed":"% Move speed"},"affix":[{"k":"str","tiers":[["Mighty","of the Bear",1,4],["Brutal","of the Boar",5,8],["Titanic","of the Giant",9,12]]},{"k":"dex","tiers":[["Nimble","of the Fox",1,4],["Deft","of the Lynx",5,8],["Lithe","of the Falcon",9,12]]},{"k":"vit","tiers":[["Sturdy","of the Ox",1,4],["Stalwart","of the Bull",5,8],["Unyielding","of the Mountain",9,12]]},{"k":"hp","tiers":[["Hale","of Life",5,16],["Robust","of Vigor",17,30],["Vigorous","of Endurance",31,45]]},{"k":"armor","tiers":[["Warded","of Iron",2,8],["Fortified","of Steel",9,15],["Impregnable","of Adamant",16,22]],"noWeapon":true},{"k":"crit","tiers":[["Keen","of Precision",1,3],["Precise","of Striking",3,5],["Deadly","of Slaying",5,8]]},{"k":"dmg","tiers":[["Cruel","of Slaughter",5,15],["Savage","of Carnage",16,26],["Merciless","of Ruin",27,38]]},{"k":"speed","tiers":[["Swift","of Haste",3,6],["Fleet","of Speed",7,10],["Windborne","of the Wind",11,15]],"only":"feet"}],"affixFrom":[1,7,12],"affixW":[1,2,4],"jewelMult":2,"potions":{"health":{"name":"Health Potion","plural":"health potions","color":"#e06a5a","glow":"224,90,80","filter":"","desc":"Restores 44% of your life."},"ironskin":{"name":"Iron Skin Potion","plural":"iron skin potions","color":"#a9c1d6","glow":"150,180,210","filter":"hue-rotate(195deg) saturate(0.55) brightness(1.2)","desc":"Armor ×3 + 60 for 20 seconds."}},"bomb":{"name":"Fire Bomb","plural":"fire bombs","cd":1,"range":7,"color":"#e8893a","glow":"232,137,58","from":2},"fire":{"r":1.5,"dur":12,"dps":10,"tick":0.5,"fade":1.5,"scorch":20,"after":10,"afterDps":5,"catchMon":1.5},"iron":{"mult":3,"add":60,"dur":20},"heal":0.44,"magicFrom":4,"lootPlus":{"champ":2,"bigChest":2,"boss":3,"guardian":4},"rareFrom":8,"ringFrom":4,"amuletFrom":6,"magicOdds":0.25,"rareOdds":0.1,"meta":{"characters":{"hero":{"fw":144,"fh":152,"frames":8,"idle":3,"footY":128,"fpt":5},"skeleton":{"fw":176,"fh":152,"frames":8,"idle":3,"footY":128,"fpt":5},"ghoul":{"fw":160,"fh":162,"frames":8,"idle":3,"footY":138,"fpt":5.5},"spider":{"fw":188,"fh":152,"frames":4,"footY":128,"fpt":2},"wraith":{"fw":102,"fh":152,"frames":4,"footY":128,"fpt":2},"demon":{"fw":150,"fh":152,"frames":4,"footY":128,"fpt":2},"keeper1":{"fw":160,"fh":152,"frames":8,"idle":3,"footY":128,"fpt":5},"keeper2":{"fw":168,"fh":152,"frames":8,"idle":3,"footY":128,"fpt":5},"keeper3":{"fw":168,"fh":160,"frames":8,"idle":3,"footY":136,"fpt":5},"keeper4":{"fw":160,"fh":152,"frames":8,"idle":3,"footY":128,"fpt":5.5},"hunter":{"fw":176,"fh":152,"frames":8,"idle":3,"footY":128,"fpt":5},"huntress":{"fw":176,"fh":152,"frames":8,"idle":3,"footY":128,"fpt":5},"girl":{"fw":144,"fh":152,"frames":8,"idle":3,"footY":128,"fpt":5},"boy":{"fw":144,"fh":152,"frames":8,"idle":3,"footY":128,"fpt":5},"duke":{"fw":176,"fh":152,"frames":8,"idle":3,"footY":128,"fpt":5},"princess":{"fw":160,"fh":152,"frames":8,"idle":3,"footY":128,"fpt":5},"smithess":{"fw":168,"fh":152,"frames":8,"idle":3,"footY":128,"fpt":5},"sorcerer":{"fw":176,"fh":176,"frames":8,"idle":3,"footY":152,"fpt":5.5}},"items":{"shortsword":[0,0],"longsword":[96,0],"greatsword":[192,0],"handaxe":[288,0],"battleaxe":[384,0],"execaxe":[480,0],"shortbow":[0,96],"longbow":[96,96],"bonebow":[192,96],"leathercap":[288,96],"greathelm":[384,96],"leathertunic":[480,96],"platemail":[0,192],"leathergloves":[96,192],"gauntlets":[192,192],"leatherboots":[288,192],"ironboots":[384,192],"silverring":[480,192],"rubyring":[0,288],"skullring":[96,288],"sapphireamulet":[192,288],"bloodamulet":[288,288],"bonetalisman":[384,288],"potion":[480,288],"broadsword":[0,384],"bastardsword":[96,384],"knightsword":[192,384],"beardedaxe":[288,384],"greataxe":[384,384],"huntingbow":[480,384],"ironhelm":[0,480],"visoredhelm":[96,480],"studded":[192,480],"platedgloves":[288,480],"heavygloves":[384,480],"chainmail":[480,480],"quiver":[0,576],"warbow":[96,576],"compositebow":[192,576],"fullplate":[288,576],"greaves":[384,576],"heavygreaves":[480,576],"firebomb1":[0,672],"firebomb2":[96,672],"firebomb3":[192,672],"firebomb4":[288,672],"firebomb5":[384,672],"firebomb6":[480,672]},"props":{"chest":[0,0,132,141],"chestopen":[134,0,144,171],"door":[280,0,131,207],"stairs":[413,0,156,127],"brazier":[571,0,104,167],"bones":[677,0,148,117],"urn":[827,0,95,151],"gold":[924,0,127,90],"throne":[1053,0,129,206],"altar":[1184,0,153,166],"candelabrum":[1339,0,84,196],"skullpile":[1425,0,166,136],"banner":[1593,0,84,206],"pillar":[1679,0,98,191],"sarcophagus":[1779,0,154,144],"bonesused":[0,209,200,103],"doorA":[202,209,192,256],"doorB":[396,209,192,256],"keeper1":[0,467,104,230],"keeper2":[106,467,108,220],"keeper3":[216,467,105,225],"keeper4":[323,467,98,228],"mtable":[423,467,230,257],"mrack":[655,467,136,230],"mchest":[793,467,170,218],"mshelf":[965,467,190,228],"mcrates":[1157,467,190,222],"mbarrel":[1349,467,100,190],"mlantern":[1451,467,65,230],"mrug":[1518,467,260,145]},"iconSize":96,"surface":{"tree1":[0,0,248,400,224],"tree2":[250,0,148,420,319],"tree3":[400,0,159,340,220],"tree4":[561,0,153,360,177],"bush1":[716,0,94,96],"bush2":[812,0,96,92],"bush3":[910,0,102,70],"bush4":[1014,0,96,100],"flowers":[1112,0,63,56],"rocks":[1177,0,71,50],"mushrooms":[1250,0,73,54],"tuft":[1325,0,65,70],"crypt":[1392,0,540,600]}},"heroSpeed":4.2,"depths":12,"propsW":1935,"itemsW":576,"levels":[{"bossRoom":false,"boss":false,"big":false},{"bossRoom":false,"boss":false,"big":false},{"bossRoom":false,"boss":false,"big":true},{"bossRoom":false,"boss":false,"big":false},{"bossRoom":true,"boss":false,"big":true},{"bossRoom":true,"boss":true,"big":false},{"bossRoom":true,"boss":true,"big":true},{"bossRoom":true,"boss":true,"big":false},{"bossRoom":true,"boss":true,"big":true},{"bossRoom":true,"boss":true,"big":false},{"bossRoom":true,"boss":true,"big":true},{"bossRoom":true,"boss":true,"big":false}]};
 const $ = id => document.getElementById(id);
 const esc = s => String(s).replace(/[&<>"]/g, c => ({ '&': '&amp;', '<': '&lt;', '>': '&gt;', '"': '&quot;' })[c]);
 const M = D.meta, ICON = M.iconSize;

diff --git a/martin/dungeon-crawler-01/index.html b/martin/dungeon-crawler-01/index.html
@@ -387,7 +387,7 @@ const DIR_ROW = [0, 7, 6, 5, 4, 3, 2, 1];      // screen sector (S,SE,E,NE,N,NW,
 const $ = id => document.getElementById(id);
 // Game version, shown muted at the bottom right of the title screen. Increment it before every push, so a player
 // can tell whether the page is up to date (and regenerate catalog.html, see README).
-const VERSION = 78;
+const VERSION = 79;
 const rnd = Math.random;
 const ri = (a, b) => a + Math.floor(rnd() * (b - a + 1));
 const pick = a => a[Math.floor(rnd() * a.length)];

diff --git a/martin/dungeon-crawler-01/README.md b/martin/dungeon-crawler-01/README.md
@@ -1710,7 +1710,7 @@ Eight more walking characters, so far only for the sandbox's character viewer: a
   were made again with "in ALL 8 frames her RIGHT hand … grips the wooden handle of a heavy iron smith's hammer …
   clearly visible in every frame".
 - **Cost:** 2 design sheets and 43 walk images, about $3.45 (OpenAI).
-- **The hunter, redone** (Google `gemini-3.1-flash-image` `edit`, 1K, 4:3, about $0.62 for 9 images), because his
+- **The hunter, redone** (Google `gemini-3.1-flash-image` `edit`, 1K, 4:3, about $0.90 for 13 images), because his
   OpenAI sheet had the stride flaw above. The inputs were the guide, `ref_hunter` (the design crop) and the first
   OpenAI SW frame; the prompt (built per view) names the legs **near** and **far** in the side views and spells out
   every frame, with "5: the FAR leg far forward … the NEAR leg far BACK … the OPPOSITE of frame 1, NOT a copy of
@@ -1718,9 +1718,16 @@ Eight more walking characters, so far only for the sandbox's character viewer: a
   - **W** and **NW** came out right at once (W: in a profile the halves share a silhouette, so it was checked by
     which boot overlaps the other; NW: `stride_check.py`). W kept flat grey guide hands in two frames, removed with
     a second edit ("repaint every flat light grey hand as … a dark brown leather glove … change nothing else").
-  - **SW** was right except frame 0, which copied frame 4's wide stance; it was fixed from the image itself by
-    using frame 1 (the next moment, the same leg arrangement) in its place. A second try, given a W frame as the
-    look reference, mixed profile figures into the three-quarter view and was not used.
+  - **SW** took five tries. The first was right by `stride_check` except frame 0, and a patch (frame 1 in its
+    place) still looked odd in the game: the lower-left boot led in almost every frame, frames 0 and 1 stalled, and
+    the head jumped. A try given a W frame as the look reference mixed profile figures in; two given the front-view
+    frame came out facing the viewer. The one used gave a three-quarter frame of the first try as the look
+    reference, described the legs by picture cues ("1: the NEAR (left) leg steps forward: its boot is planted
+    directly BELOW the other boot in the image … 5: the FAR (right) leg steps forward: its boot is planted far to
+    the lower LEFT … the boots are WIDE apart left-right, the widest stance of all 8 frames … NOT a copy") and added
+    "BODY ANGLE: a three-quarter view exactly like the third reference image: his chest, hips and face are turned
+    about 45 degrees to the LEFT … NOT facing the viewer straight on, and NOT in full profile". Its frame 6 is
+    painted a little taller, so the head rises about 9 px more on that step.
   - **S** (front view): two tries kept both feet at nearly the same height, with the same foot slightly lower in
     almost every frame, despite describing the feet by image side ("the foot on the RIGHT side of the image … is
     clearly LOWER"). The S row was put together from the two tries' frames by `stride_check`'s *low* measure: the

diff --git a/.claude/skills/sprite-animation/SKILL.md b/.claude/skills/sprite-animation/SKILL.md
@@ -44,9 +44,16 @@ its key files into this public repo. Only call it by path from the notes repo.
   row from two attempts' frames, choosing each frame by which foot is lower. A single wrong frame can also be
   replaced by its neighbour with the same leg arrangement. Repainting with Gemini a character first made with
   OpenAI changes its look a little: redo all five directions, not just the broken ones.
-- **The look reference must be in a similar view.** Giving a side-view (W) frame as the look reference for a
-  three-quarter (SW) sheet made the model paint some figures in profile (and drop the bow). Use the first frame of
-  the SW sheet (or the front-view design) as the reference for every other direction.
+- **The look reference must be in the same view.** It sets the body angle more strongly than the prompt or the
+  guide: a side-view (W) frame as the reference for a three-quarter (SW) sheet put some figures in profile (and
+  dropped the bow); a front-view (S) frame made every SW figure face the viewer. For a redo, give a frame of the
+  same direction from an earlier attempt (even a flawed one) and add a body-angle line ("turned about 45 degrees to
+  the LEFT … NOT facing the viewer straight on, and NOT in full profile").
+- **Picture cues beat leg names for three-quarter views.** What fixed the hunter's SW: "1: … its boot is planted
+  directly BELOW the other boot in the image (nearly in one vertical line) … 5: … its boot far to the lower LEFT,
+  the near boot far to the upper RIGHT: the boots WIDE apart left-right, the widest stance of all 8 frames". The
+  models follow positions in the picture far better than which leg is which. A row that passes `stride_check` can
+  still look wrong (the same boot leading): watch it walk slowly in the game too.
 - **Coloured guide limbs** (blue left, orange right) leak into the art as blue and orange armour.
 - **"Make the arms swing"** without per-frame detail gives stiff, hanging arms even if the guide swings them.
 - **A long shared design reference is not enough** to keep the design: without an explicit design paragraph
